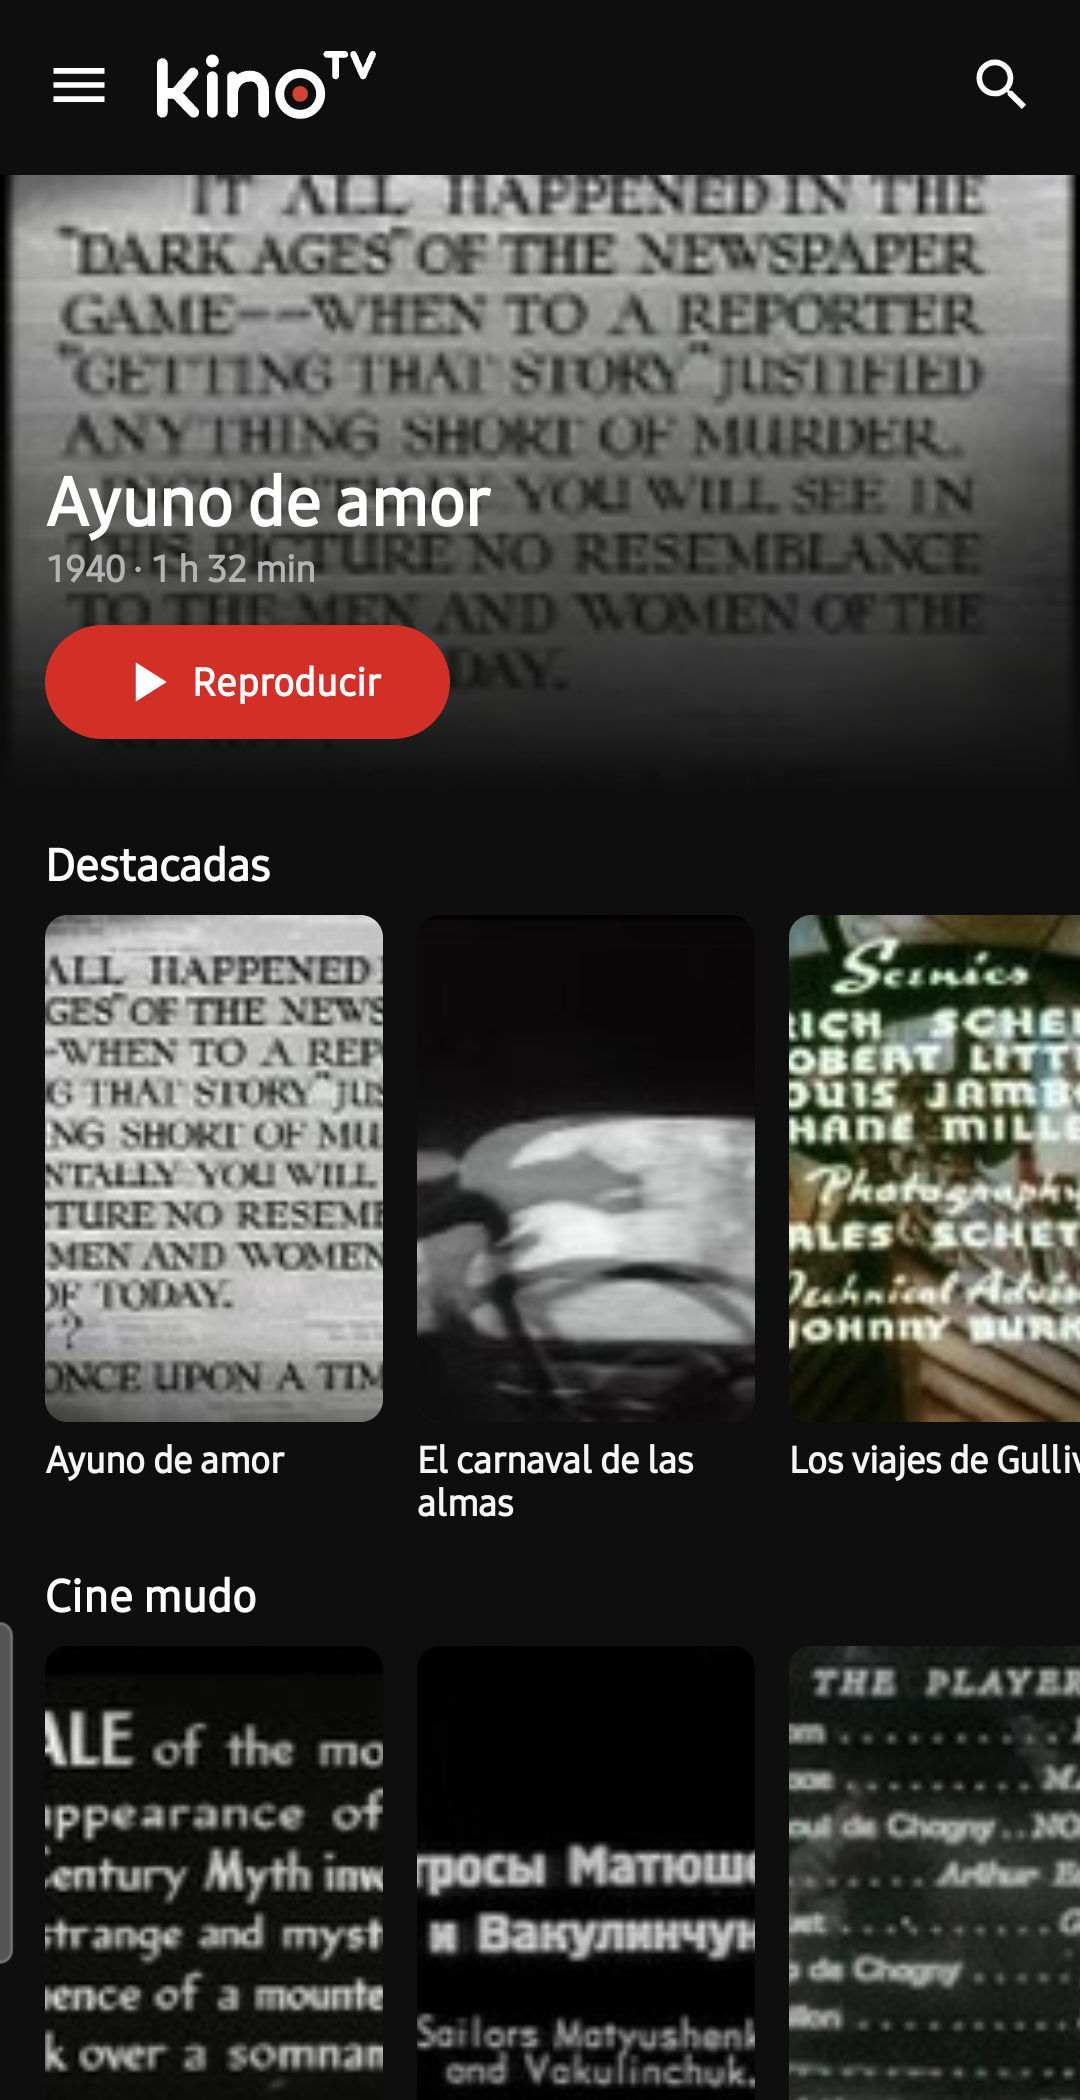
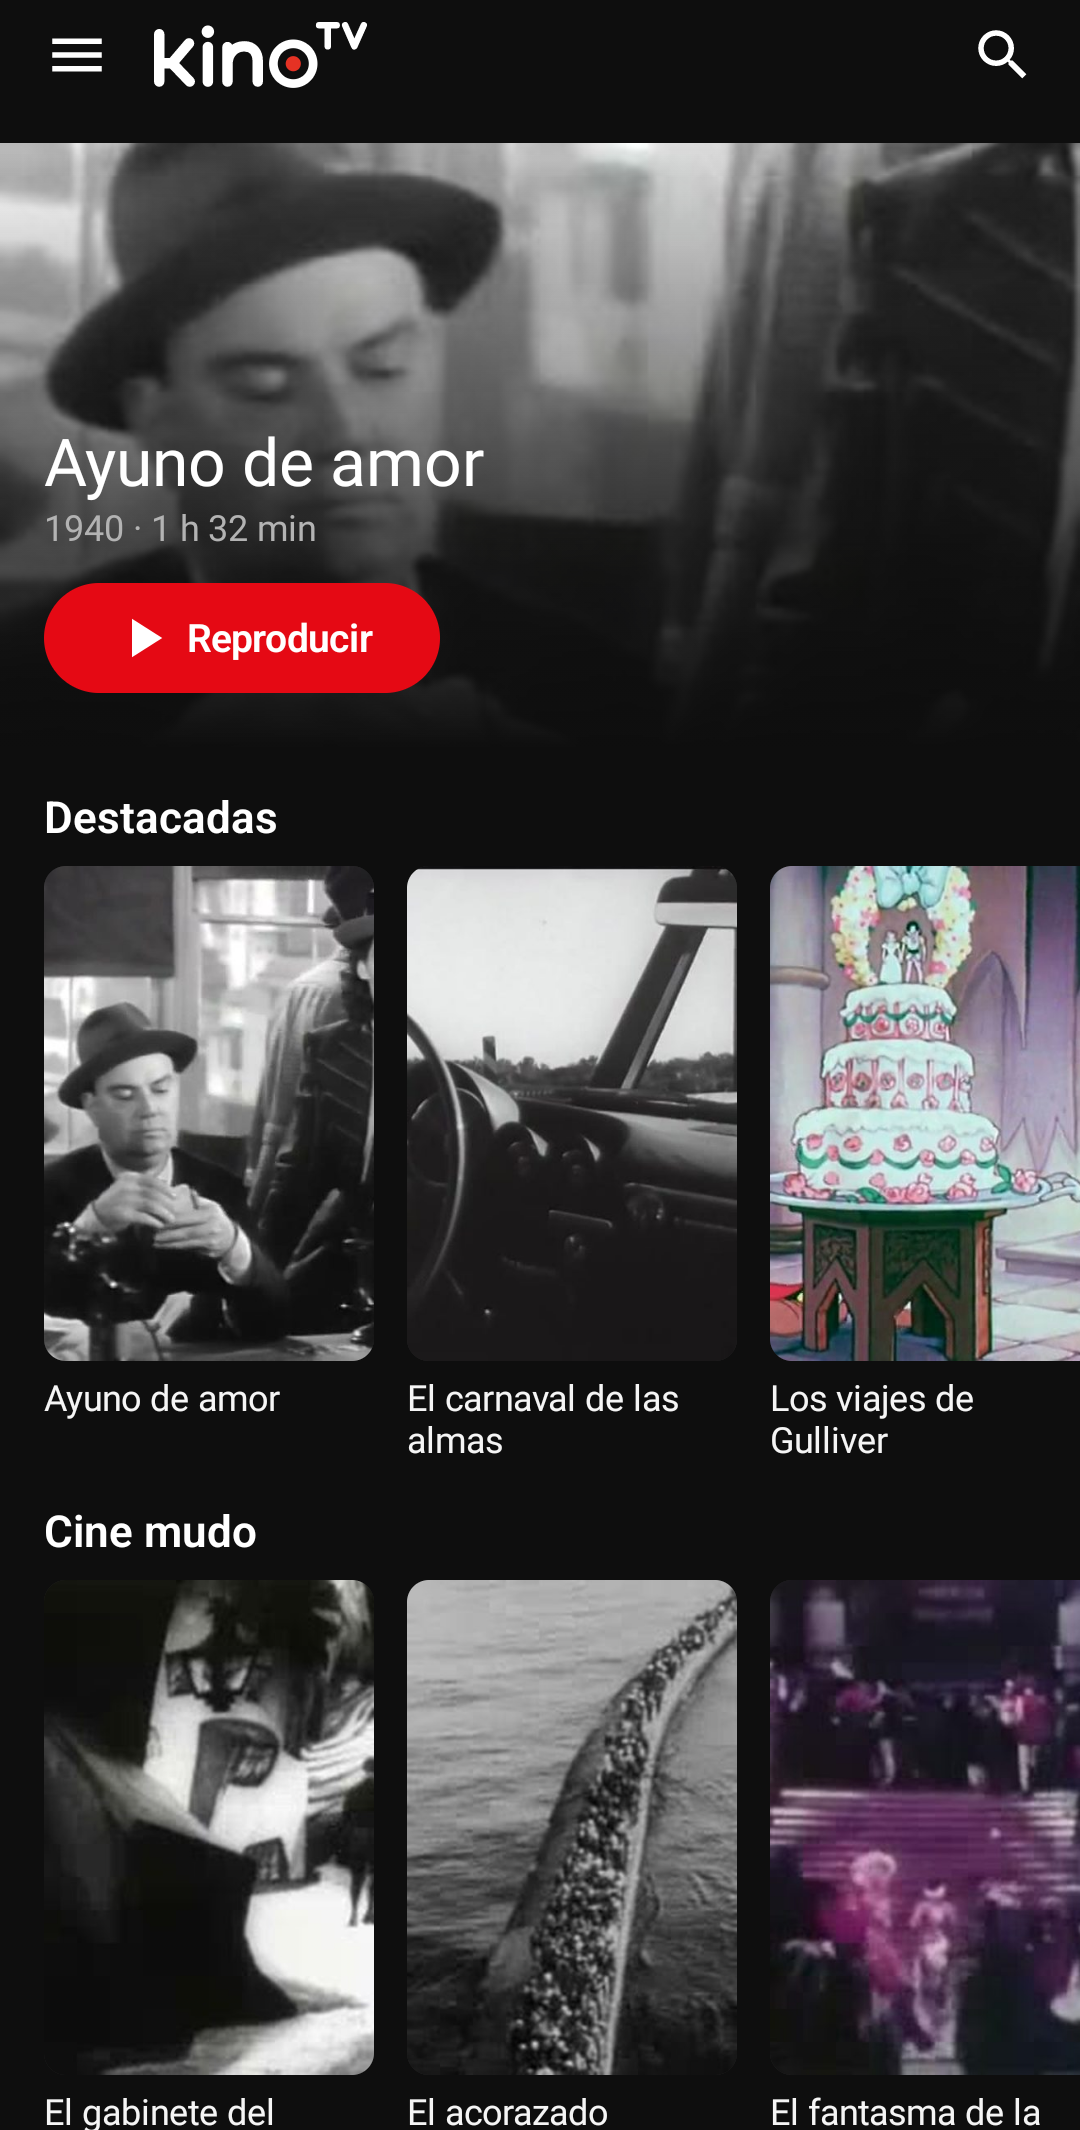
F-Droid listing: screenshots with the new posters

diff --git a/PRIVACY.md b/PRIVACY.md
@@ -1,6 +1,6 @@
 # Privacidad
 
-## Esta demo
+## Kino Tv
 
 **Kino Tv no envía nada sobre ti.** No tiene cuentas, analítica, publicidad ni reportes de errores. Solo
 descarga los videos del Internet Archive que aparecen en su catálogo (los pósters vienen dentro de la
